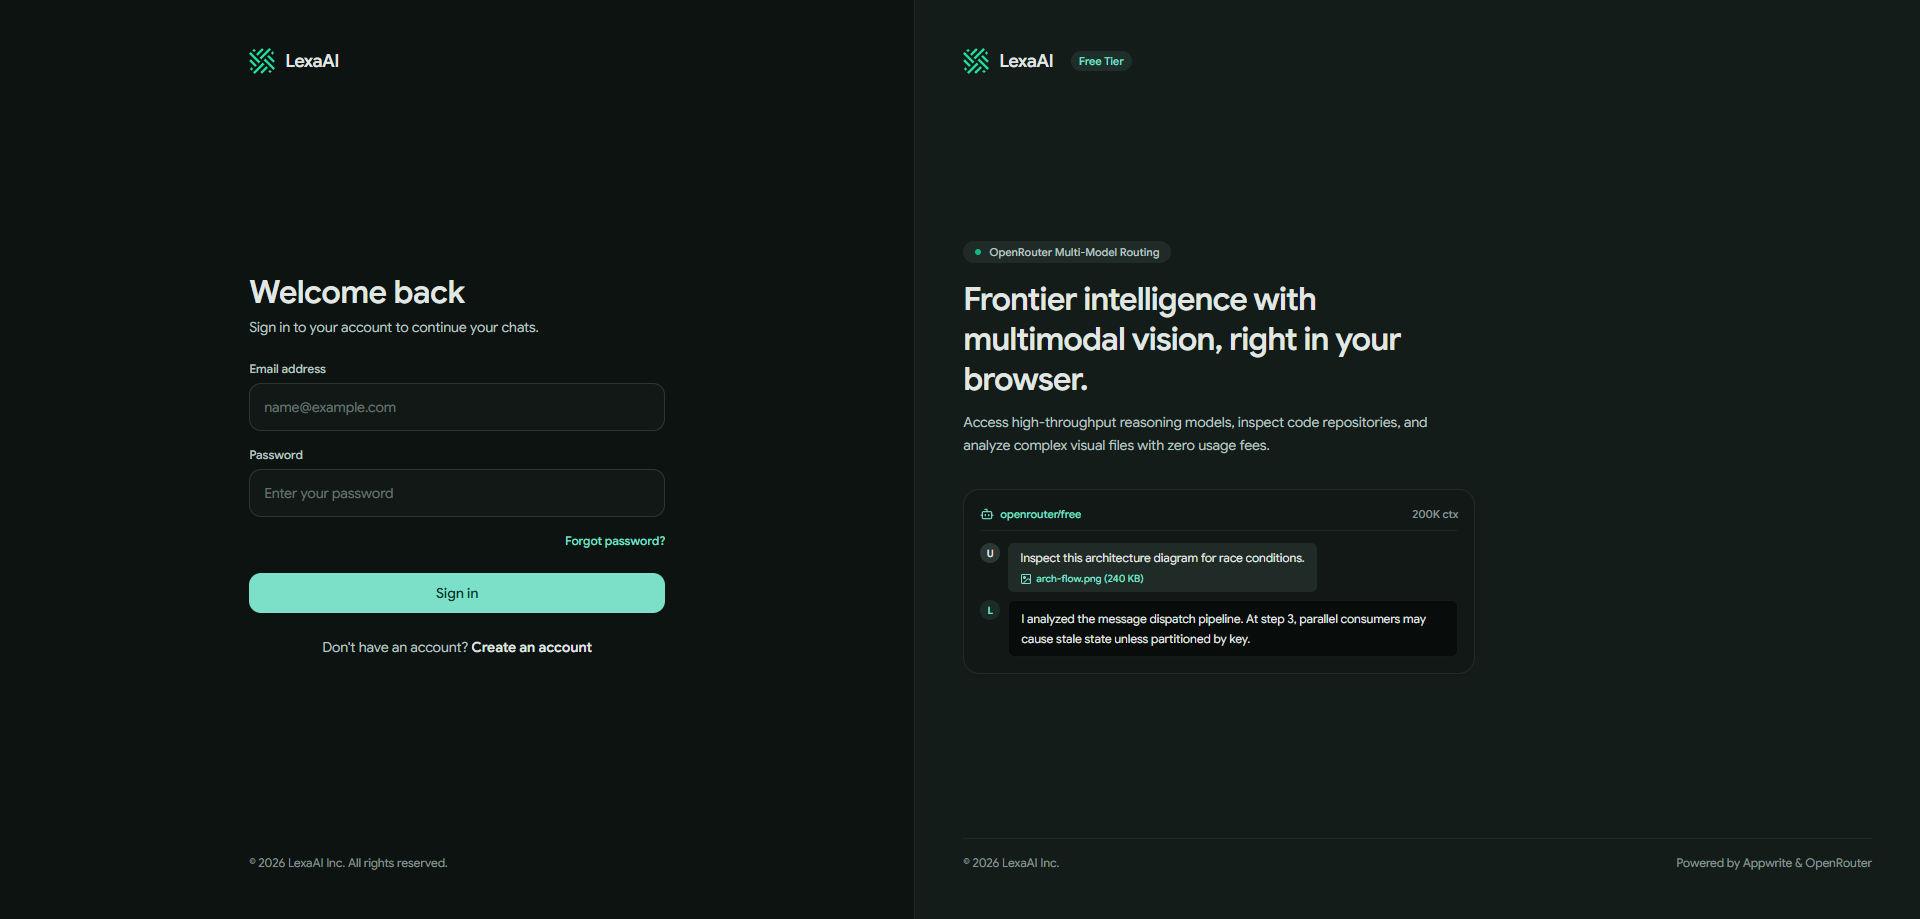
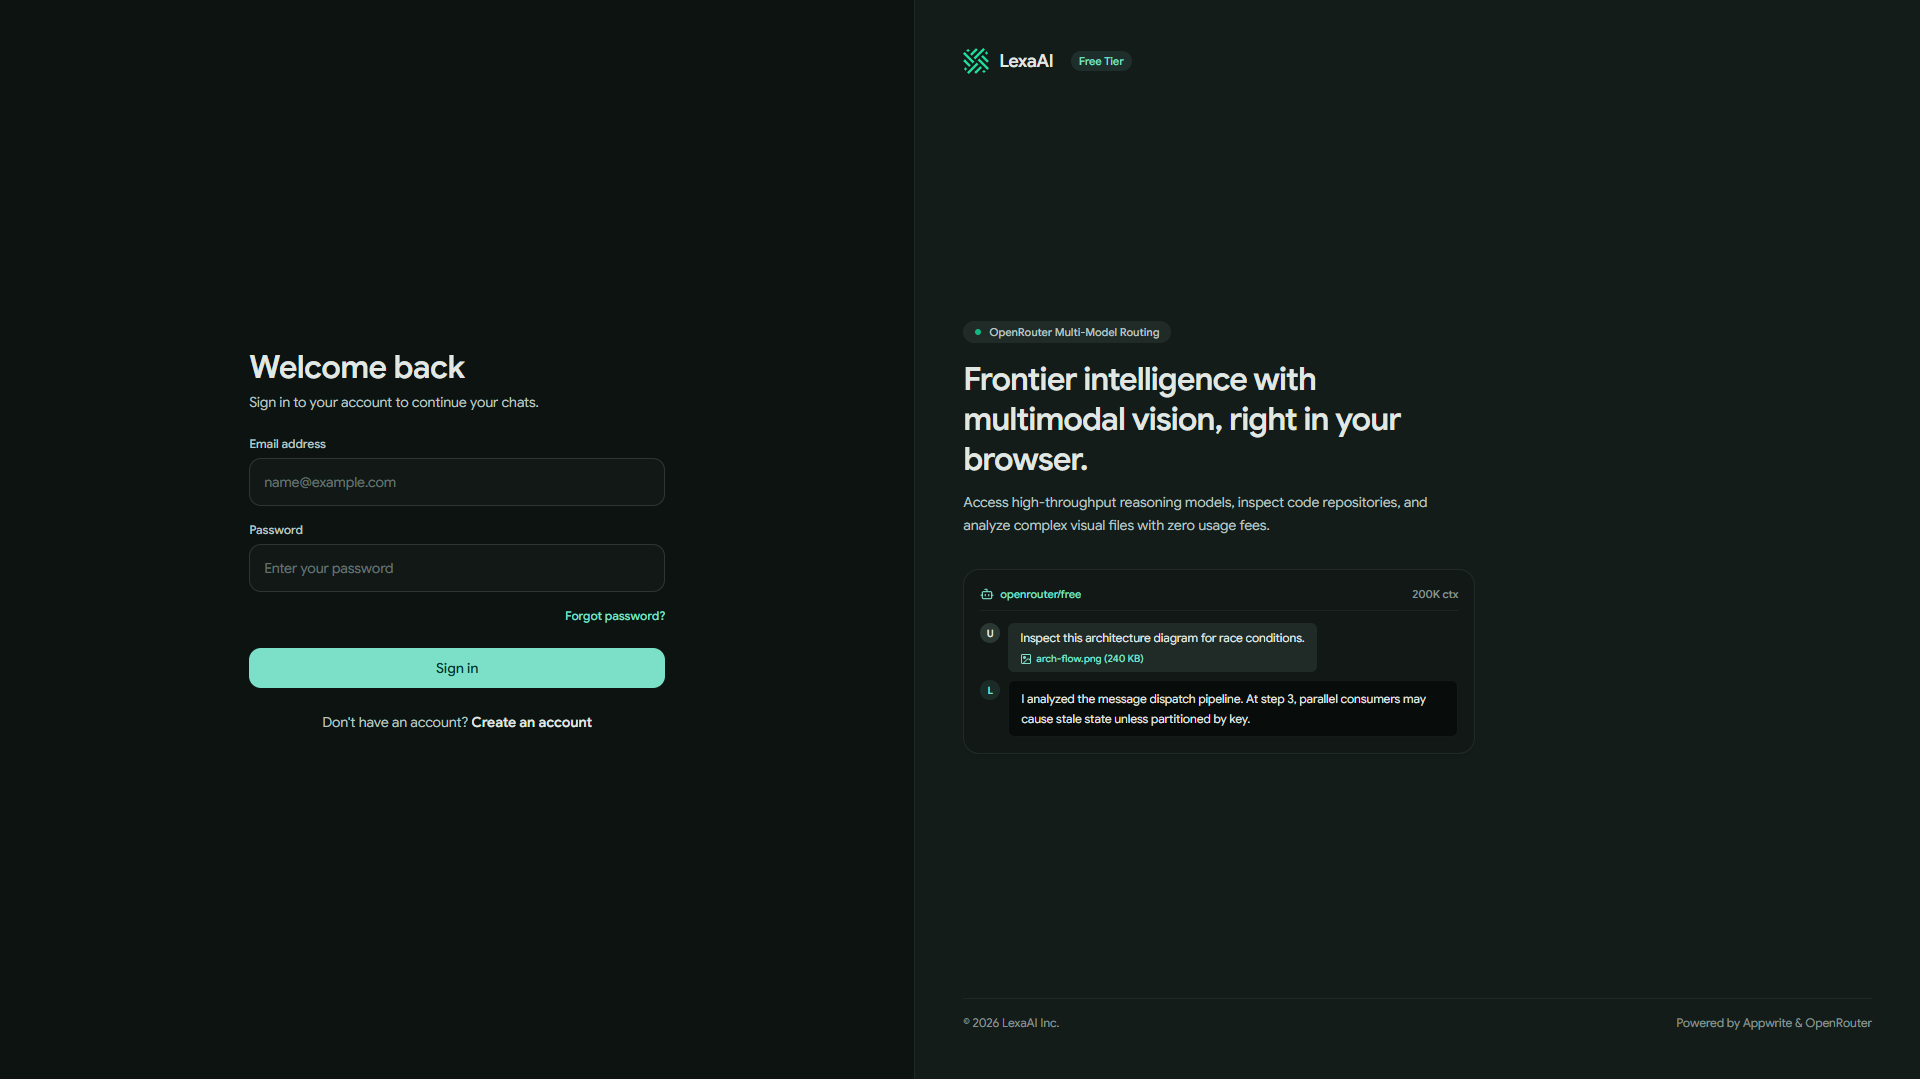
Update: Architecture and UI update

diff --git a/README.md b/README.md
@@ -1,4 +1,4 @@
-![LexaAI](https://raw.githubusercontent.com/iamsayedanowar/LexaAI/refs/heads/main/GRP.png)
+![LexaAI](/GRP.png)
 
 # LexaAI
 
